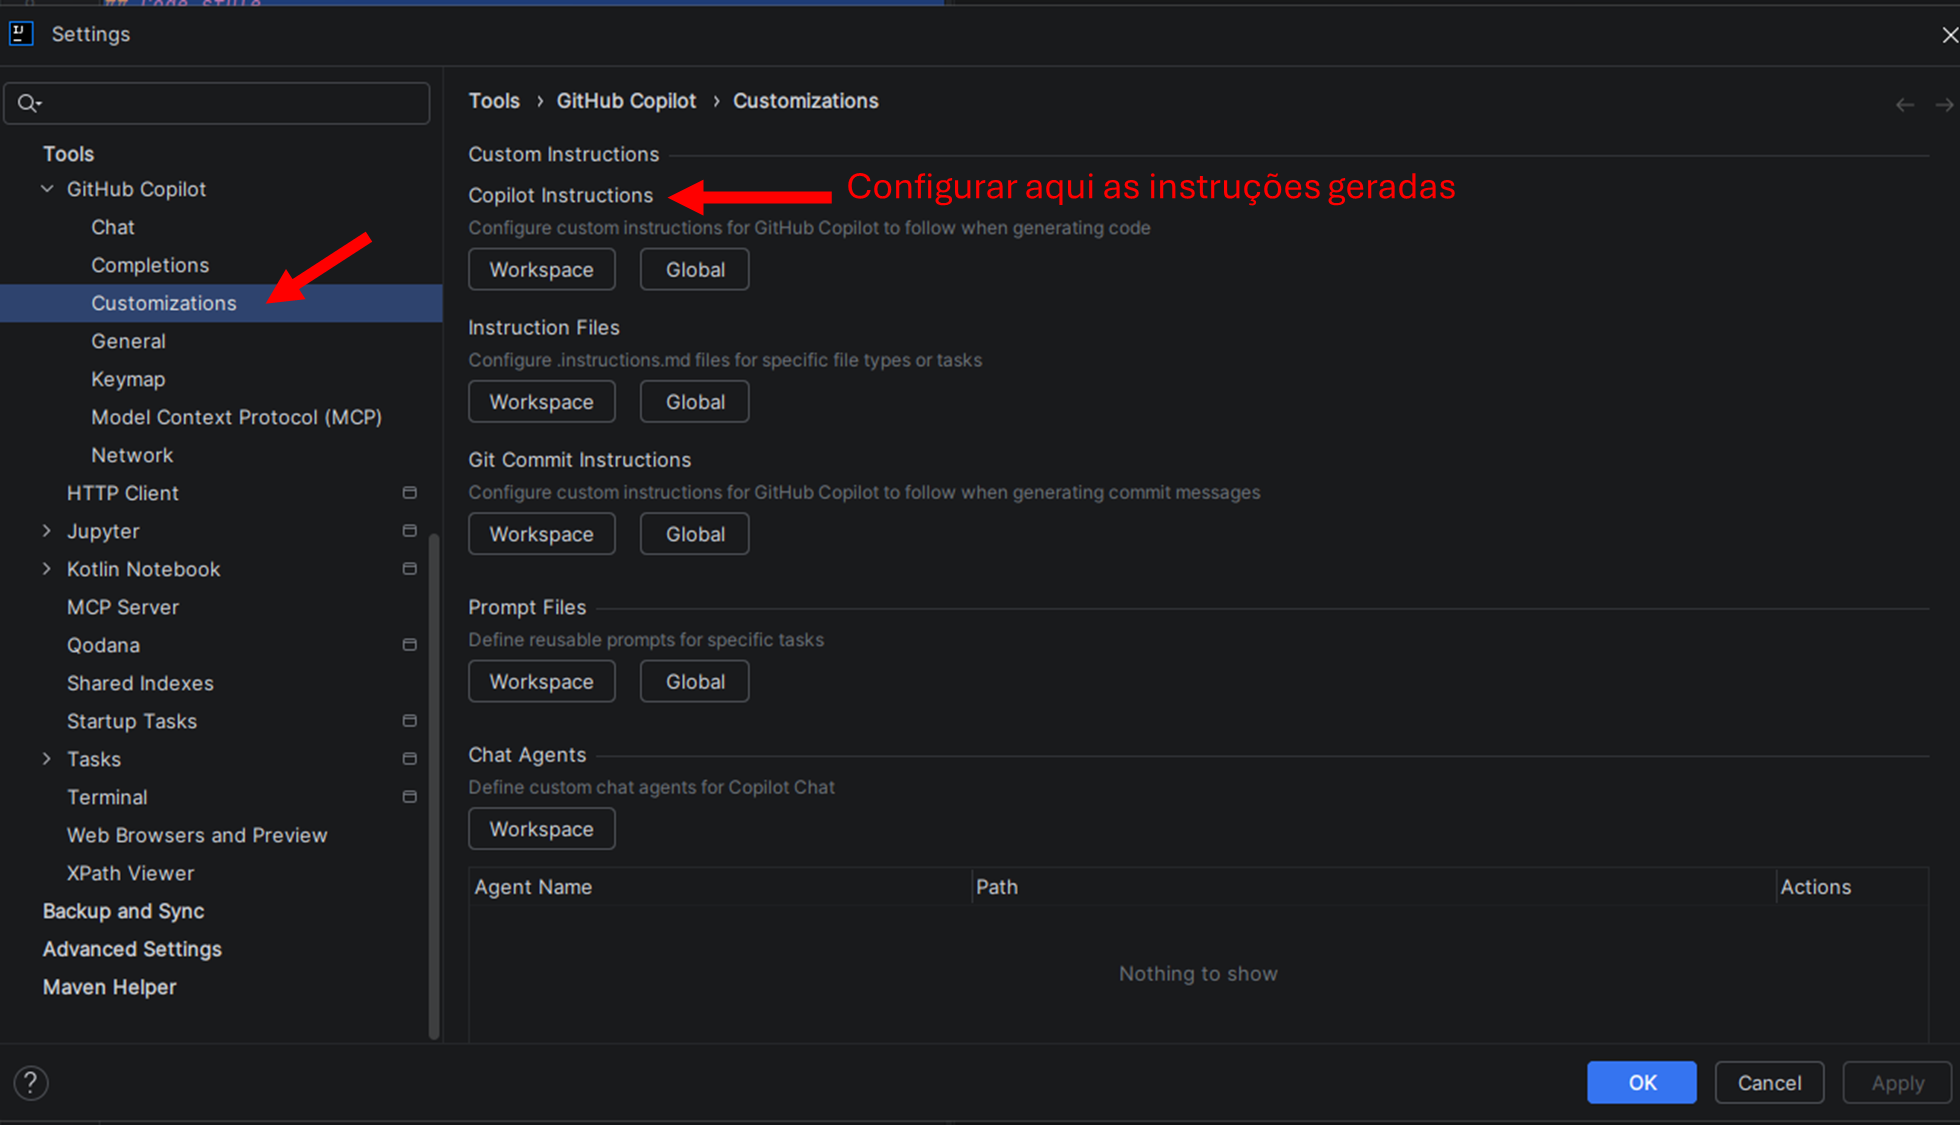
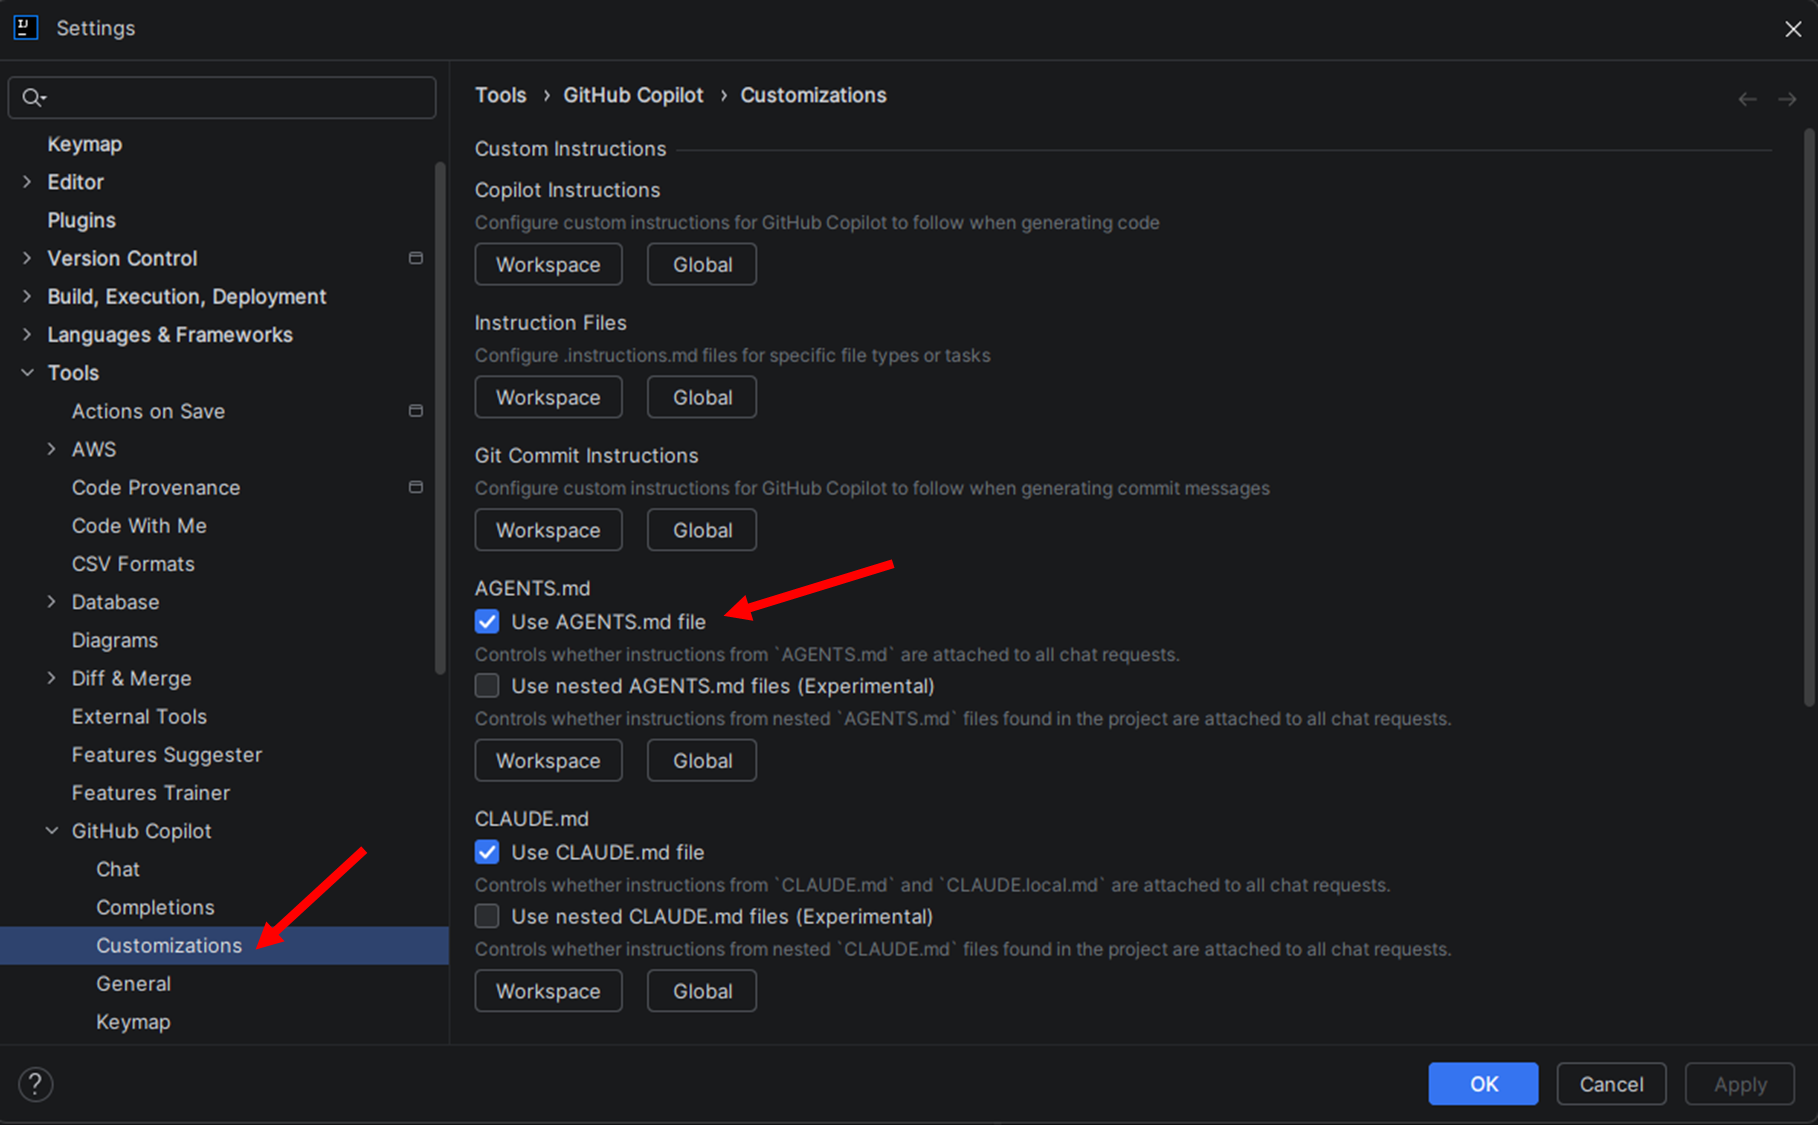
fix: update instructions for AGENTS.md usage in GitHub Copilot configuration

diff --git a/content/posts/2026-04-09-boas-praticas-na-escrita-de-testes-com-IA.md b/content/posts/2026-04-09-boas-praticas-na-escrita-de-testes-com-IA.md
@@ -134,11 +134,11 @@ Para configurar o uso do AGENTS.md no IntelliJ IDEA, siga os passos abaixo (Esse
 
 ![Configuração do Agent](/posts/images/2026-04-09-boas-praticas-na-escrita-de-testes-com-IA/agent-configuration-intellij.png)
 
-2. Nas configurações teremos a opção GitHub Copilot -> Customizations -> Copilot Instructions, é nessa parte que iremos configurar o AGENTS.md (nesse caso `copilot-instructions.md`) para o nosso projeto:
+2. Nas configurações teremos a opção GitHub Copilot -> Customizations -> "Use AGENTS.md file", selecione essa opção para habilitar o uso do AGENTS.md para personalizar as instruções de geração de código da IA.
 
 ![Configuração de Copilot Instructions no GitHub Copilot](/posts/images/2026-04-09-boas-praticas-na-escrita-de-testes-com-IA/agent-instructions-intellij.png)
 
-3. Com o arquivo criado na pasta `.github` do projeto basta copiar o seu AGENTS.md para o `copilot-instructions.md` e salvar, com isso o GitHub Copilot irá utilizar as instruções definidas no AGENTS.md para gerar os testes unitários seguindo as boas práticas definidas no arquivo.
+3. Com o arquivo criado na pasta raiz do projeto com o nome `AGENTS.md`, com isso o GitHub Copilot irá utilizar as instruções definidas no Markdown para gerar os testes unitários, e outras instruções, seguindo as boas práticas definidas no arquivo.
 
 ![Arquivo copilot-instructions.md criado na pasta .github](/posts/images/2026-04-09-boas-praticas-na-escrita-de-testes-com-IA/copilot-instructions-created.png)
 
